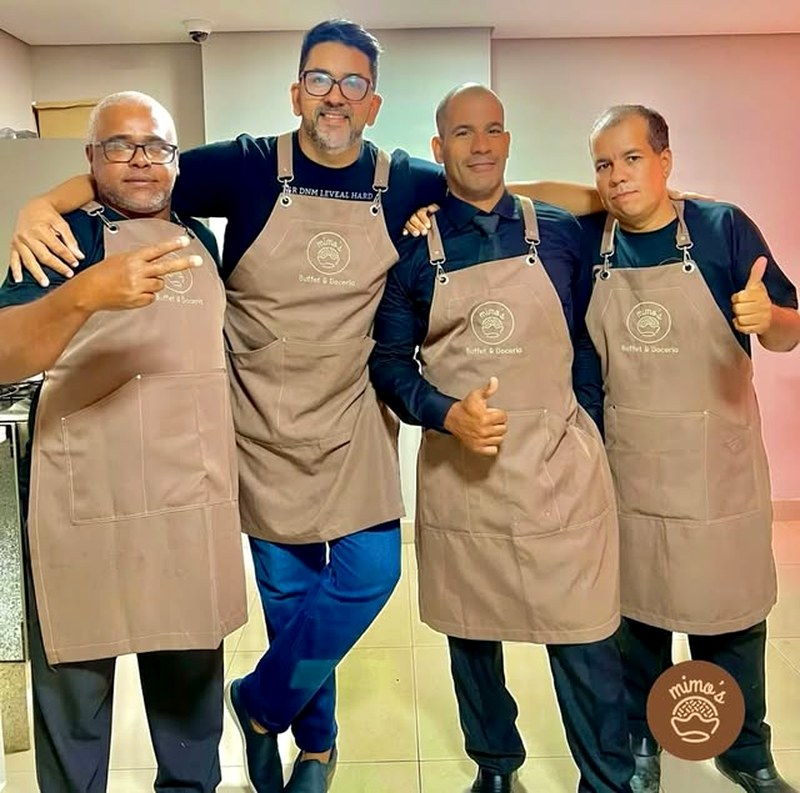
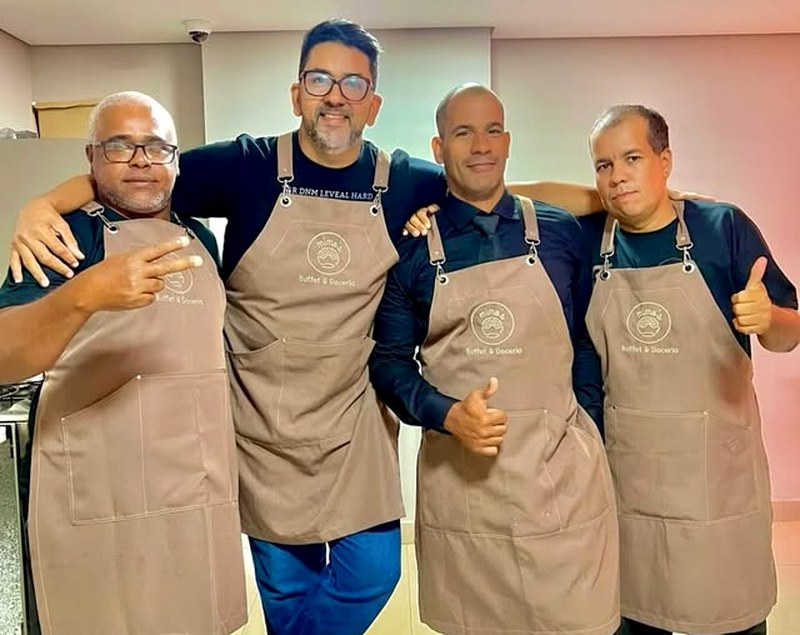
Add files via upload

diff --git a/index.html b/index.html
@@ -37,12 +37,9 @@
 
 <main>
 <section id="topo" class="dots" style="position: relative; overflow: hidden">
-<div class="m-hero" style="max-width: 1280px; margin: 0 auto; padding: 72px 24px 120px; display: flex; flex-wrap: wrap; gap: 48px; align-items: center">
+<div class="m-hero" style="max-width: 1280px; margin: 0 auto; padding: clamp(32px, 7vh, 72px) 24px clamp(84px, 13vh, 120px); min-height: calc(100svh - 76px); display: flex; flex-wrap: wrap; gap: 48px; align-items: center; align-content: center">
 <div style="flex: 1 1 560px; min-width: 0; display: flex; flex-direction: column; gap: 30px">
-<h1 class="rise" style="margin: 0; font-family: 'Gloock', serif; font-weight: 400; font-size: clamp(52px, 8vw, 92px); line-height: 0.98; letter-spacing: -0.02em">Toda festa
-<span class="m-pill" style="display: inline-block; vertical-align: middle; width: 150px; height: 70px; border-radius: 999px; overflow: hidden; border: 2px solid #10302C; margin: 0 6px"><img src="img/bolos.jpg" alt="" style="width: 100%; height: 100%; object-fit: cover; display: block"></span>
-merece um
-<span style="display: block; font-family: 'Ballet', cursive; font-size: clamp(100px, 13vw, 150px); line-height: 0.9; color: #C4501C; margin-top: 8px">mimo<span style="color: #10302C">.</span></span>
+<h1 class="rise" style="margin: 0; font-family: 'Gloock', serif; font-weight: 400; font-size: clamp(48px, min(7.2vw, 10.5vh), 96px); line-height: 1; letter-spacing: -0.02em">Toda festa merece um <span style="color: #C4501C; text-decoration: underline; text-decoration-color: #FFD36E; text-decoration-thickness: 0.14em; text-underline-offset: 0.08em; text-decoration-skip-ink: none">mimo</span>.
 </h1>
 <p class="rise d1" style="margin: 0; font-size: 20px; line-height: 1.6; color: #2D4A45; max-width: 520px">Buffet completo para <span class="word" id="word">aniversários</span> em Recife. Salgados, finger foods, mini empratados e docinhos, com louças, garçons e cozinha inclusos.</p>
 <div class="rise d2" style="display: flex; flex-wrap: wrap; gap: 14px; align-items: center">
@@ -51,14 +48,14 @@ merece um
 </div>
 </div>
 
-<div class="rise d2 m-hvis" style="flex: 1 1 440px; min-width: 0; position: relative; height: 600px">
-<div class="px m-arch" style="position: absolute; right: 0; top: 0; width: 82%; height: 470px; border-radius: 220px 220px 28px 28px; overflow: hidden; border: 2px solid #10302C; background: #F8D6CC">
+<div class="rise d2 m-hvis" style="flex: 1 1 440px; min-width: 0; position: relative; height: clamp(420px, 64vh, 600px)">
+<div class="px m-arch" style="position: absolute; right: 0; top: 0; width: 82%; height: 78%; border-radius: 220px 220px 28px 28px; overflow: hidden; border: 2px solid #10302C; background: #F8D6CC">
 <img class="slide on" src="img/mesa.jpg" alt="Mesa de coffee break montada pelo Mimo's">
 <img class="slide" src="img/bolos.jpg" alt="Bolos da doceria Mimo's" loading="lazy">
-<img class="slide" src="img/atendimento.jpg" alt="Equipe servindo doces em evento" loading="lazy">
-<img class="slide" src="img/cafe.jpg" alt="Atendente preparando café no evento" loading="lazy">
+<img class="slide" src="img/petiscos.jpg" alt="Mesa com petiscos e bolos fatiados" loading="lazy">
+<img class="slide" src="img/atendimento.jpg" alt="Equipe servindo doces em evento" loading="lazy" style="object-position: 50% 18%">
 </div>
-<div class="pxs m-small" style="position: absolute; left: 0; bottom: 20px; width: 46%; height: 250px; border-radius: 24px; overflow: hidden; border: 2px solid #10302C; box-shadow: 10px 10px 0 #C4501C; background: #FFD36E">
+<div class="pxs m-small" style="position: absolute; left: 0; bottom: 3%; width: 44%; height: 40%; border-radius: 24px; overflow: hidden; border: 2px solid #10302C; box-shadow: 10px 10px 0 #C4501C; background: #FFD36E">
 <img src="img/servico.jpg" alt="Garçom do Mimo's apresentando um doce" style="width: 100%; height: 100%; object-fit: cover; display: block">
 </div>
 <div class="m-badge" style="position: absolute; right: 18px; bottom: 40px; width: 150px; height: 150px; background: #FFD36E; border: 2px solid #10302C; border-radius: 999px; display: flex; align-items: center; justify-content: center">
@@ -106,7 +103,7 @@ merece um
 <div style="padding: 22px 22px 26px; display: flex; flex-direction: column; gap: 10px; flex-grow: 1"><h3 style="margin: 0; font-family: 'Gloock', serif; font-weight: 400; font-size: 30px; line-height: 1.05">Social e casamento</h3><p style="margin: 0; font-size: 16px; line-height: 1.55; flex-grow: 1">Entradinhas, finger foods, mini empratados e docinhos finos para receber bem.</p><span style="font-weight: 700; font-size: 15px; margin-top: 6px">Ver cardápios →</span></div>
 </a>
 <a class="card rv" href="cardapio.html#tematico" style="text-decoration: none; color: #10302C; background: #F07B3F; border: 2px solid #10302C; border-radius: 28px; overflow: hidden; display: flex; flex-direction: column">
-<div style="height: 280px; overflow: hidden; border-bottom: 2px solid #10302C; position: relative"><img src="img/brasa.jpg" alt="Linguiças na brasa" loading="lazy" style="width: 100%; height: 100%; object-fit: cover; display: block"><span style="position: absolute; left: 14px; top: 14px; background: #FFFAF3; border: 2px solid #10302C; border-radius: 999px; padding: 6px 12px; font-size: 13px; font-weight: 700">a partir de R$ 48</span></div>
+<div style="height: 280px; overflow: hidden; border-bottom: 2px solid #10302C; position: relative"><img src="img/petiscos.jpg" alt="Mesa de petiscos montada" loading="lazy" style="width: 100%; height: 100%; object-fit: cover; display: block"><span style="position: absolute; left: 14px; top: 14px; background: #FFFAF3; border: 2px solid #10302C; border-radius: 999px; padding: 6px 12px; font-size: 13px; font-weight: 700">a partir de R$ 48</span></div>
 <div style="padding: 22px 22px 26px; display: flex; flex-direction: column; gap: 10px; flex-grow: 1"><h3 style="margin: 0; font-family: 'Gloock', serif; font-weight: 400; font-size: 30px; line-height: 1.05">Churrasco, feijoada e pizza</h3><p style="margin: 0; font-size: 16px; line-height: 1.55; flex-grow: 1">Petiscos volantes e almoço completo, ou rodízio de pizza e crepe.</p><span style="font-weight: 700; font-size: 15px; margin-top: 6px">Ver cardápios →</span></div>
 </a>
 <a class="card rv" href="cardapio.html#corporativo" style="text-decoration: none; color: #10302C; background: #FFFFFF; border: 2px solid #10302C; border-radius: 28px; overflow: hidden; display: flex; flex-direction: column">

diff --git a/assets/cardapio.js b/assets/cardapio.js
@@ -41,11 +41,11 @@
       ['Fritos', 'Coxinha, camarão especial, bolinho de bacalhau'],
       ['Mini empratado (1 opção)', 'Casquinha de aratu, casquinha de caranguejo ou escondidinho de abóbora com carne seca'],
       ['Docinhos finos', 'Brigadeiro belga, bombom de nozes, bombom de pistache, trufa crocante, docinho Romeu e Julieta'], ['Bebidas', bev]] },
-    { id: 'chu', img: 'img/brasa.jpg', pitch: 'Petiscos volantes e almoço completo com picanha e contrafilé maturado.', s: [
+    { id: 'chu', img: 'img/petiscos.jpg', pitch: 'Petiscos volantes e almoço completo com picanha e contrafilé maturado.', s: [
       ['Petiscos volantes', 'Camarão Mimo’s, coxinha, croquetes, delícia sertaneja, pãozinho de alho, linguiças variadas, coalhinho maçaricado'],
       ['Almoço', 'Picanha importada, contrafilé maturado, aves e costelinha barbecue; feijão (macassar, verde ou tropeiro), arroz, farofa, vinagrete e maionese de batata'],
       ['Sobremesa', 'Doces tradicionais'], ['Bebidas', bev]] },
-    { id: 'fei', img: 'img/brasa.jpg', pitch: 'Feijoada completa com caldinho, torresmo e petiscos para abrir.', s: [
+    { id: 'fei', img: 'img/petiscos.jpg', pitch: 'Feijoada completa com caldinho, torresmo e petiscos para abrir.', s: [
       ['Petiscos volantes', 'Caldinho de feijoada, camarão Mimo’s, coxinha, croquetes, delícia sertaneja, espetinho de frango com bacon, coalhinho, mix de castanhas, beijuzinho de carne seca'],
       ['Almoço', 'Feijoada com carnes e linguiças defumadas, arroz, couve à mineira, farofa, farinha, laranja, abacaxi, vinagrete e torresmo'],
       ['Sobremesa', 'Doces tradicionais'], ['Bebidas', bev]] },
